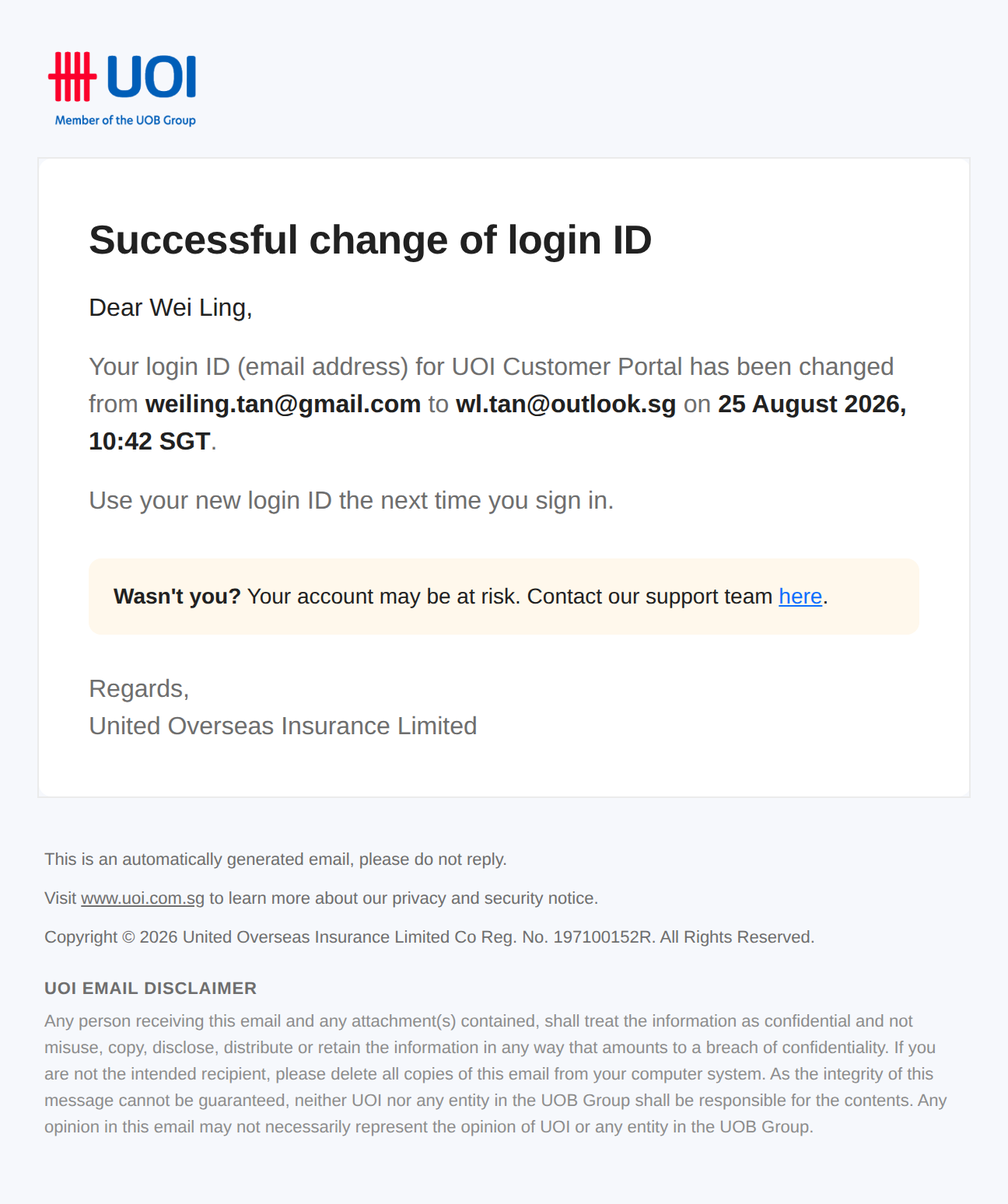
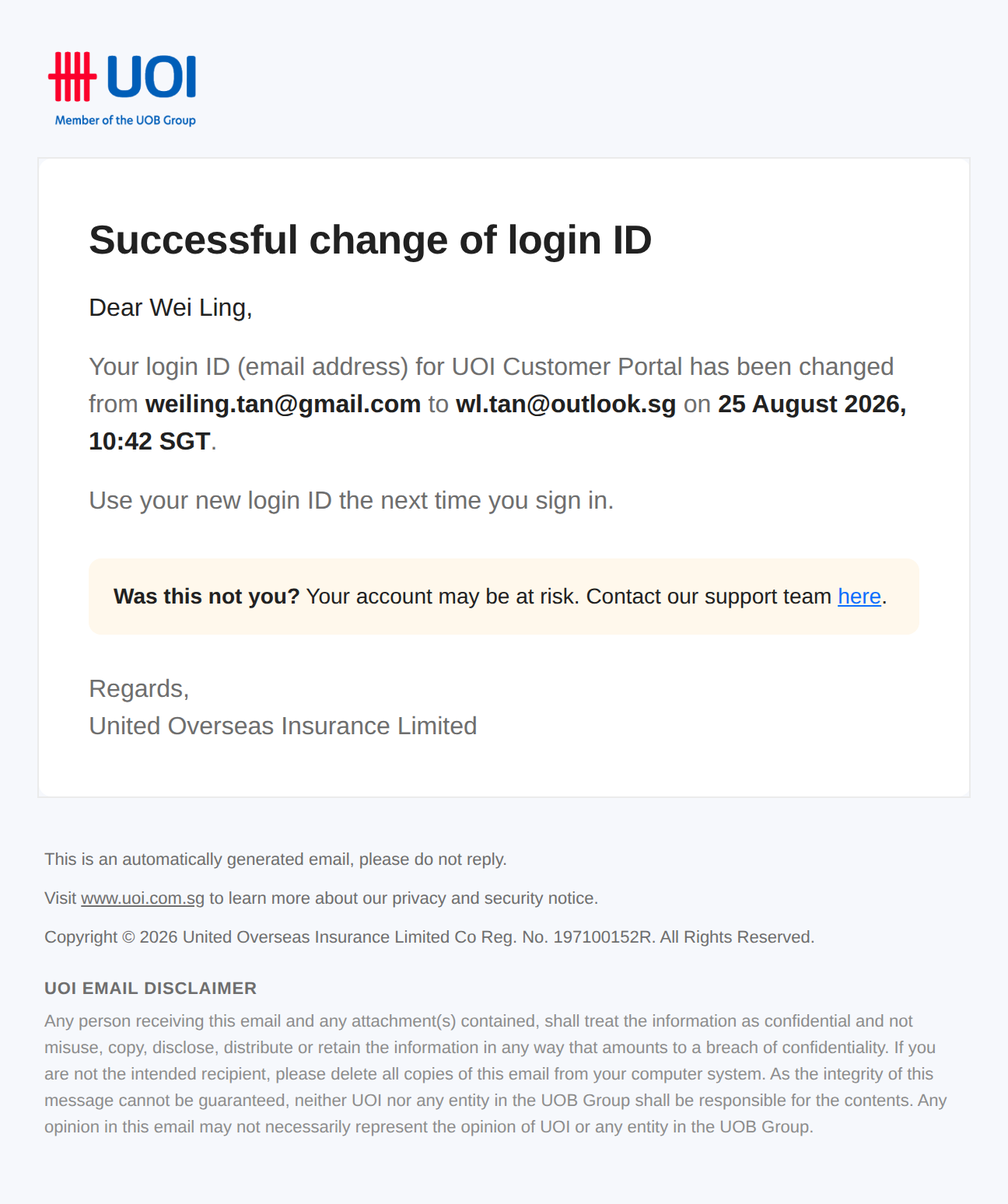
Remove contractions from all customer-facing copy
UOI style does not permit contractions like wasn't or isn't. The only one in
the emails was the notice heading, so 'Wasn't you?' becomes 'Was this not you?'
across all six templates that carry it.

The same pass covers the assets around the templates: the review page prose,
the reviewer notes that ship inside it, and the README. Possessives such as
'the portal's tokens' are left alone, being possessives rather than
contractions.

Regenerates the eleven templates, confluence.md, the PNG previews and the
review page.

Claude-Session: https://claude.ai/code/session_01Ugy4CsjXngQbuZH3dm3bHN

Changed region(s): [[0.463, 0.4651, 0.8642, 0.5271], [0.1543, 0.4651, 0.4321, 0.5271]]

diff --git a/emails/preview.html b/emails/preview.html
@@ -195,11 +195,11 @@
         </div>
         <div class="change">
           <h3>The code is an object, not a sentence</h3>
-          <p><code>Your OTP: 946683</code> inside a paragraph doesn’t scan. The code now sits in a plate that reuses the portal’s OTP input treatment, at 34px with wide tracking, with its expiry inside the same plate. One thing to read, not two.</p>
+          <p><code>Your OTP: 946683</code> inside a paragraph does not scan. The code now sits in a plate that reuses the portal’s OTP input treatment, at 34px with wide tracking, with its expiry inside the same plate. One thing to read, not two.</p>
         </div>
         <div class="change">
           <h3>One expiry, stated correctly</h3>
-          <p>The spec table says 3 minutes; the current email says 5. Templates use 3 throughout. Drive it from one backend value so copy and token can’t drift apart again.</p>
+          <p>The spec table says 3 minutes; the current email says 5. Templates use 3 throughout. Drive it from one backend value so copy and token cannot drift apart again.</p>
         </div>
         <div class="change">
           <h3>The yellow highlighter is gone</h3>
@@ -207,15 +207,15 @@
         </div>
         <div class="change">
           <h3>Copy cut by roughly half</h3>
-          <p>Before: <em>“To ensure secure access to your UOIConnect account, we’ve generated a One-Time Password (OTP) for you. Please enter this OTP on the portal login page to proceed.”</em> After: <em>“Enter this code to finish signing in to UOI Customer Portal.”</em></p>
+          <p>Before: <em>“To ensure secure access to your UOIConnect account, we have generated a One-Time Password (OTP) for you. Please enter this OTP on the portal login page to proceed.”</em> After: <em>“Enter this code to finish signing in to UOI Customer Portal.”</em></p>
         </div>
         <div class="change">
           <h3>The footer is legal text only</h3>
           <p>The blue copyright bar and the link row are gone. What remains is the required legal block, which sits below the card at 11px, the smallest type in the email, so it reads as document chrome rather than message content. The support route moved inside the card as closing fine print at 13px.</p>
         </div>
         <div class="change">
-          <h3>Every email says what to do if it wasn’t you</h3>
-          <p>Login: change your password. Reset: ignore it, nothing happens. Change login ID: call us now, don’t enter the code. The highest-value copy in a security email, and the current template has none of it.</p>
+          <h3>Every email says what to do if it was not you</h3>
+          <p>Login: change your password. Reset: ignore it, nothing happens. Change login ID: call us now, do not enter the code. The highest-value copy in a security email, and the current template has none of it.</p>
         </div>
     </div>
   </section>
@@ -404,7 +404,7 @@
             <dt>Subject</dt><dd class="mono">Reset your UOI Customer Portal password</dd>
             <dt>Preheader</dt><dd>Link is valid for the next 30 minutes.</dd>
           </dl>
-          <p class="why">Link, not a code. A reset is a click-through, so don't make the user retype anything.</p>
+          <p class="why">Link, not a code. A reset is a click-through, so the user does not have to retype anything.</p>
         </div>
         <div class="tpl-render">
           <span class="viewport-label">600&#8202;px render</span>
@@ -686,7 +686,7 @@
                 <tr>
                   <td style=&quot;background-color:#FFF8EC; border-radius:8px;
                              padding:14px 16px; font-family:'Noto Sans', -apple-system, BlinkMacSystemFont, 'Segoe UI', Arial, Helvetica, sans-serif; font-size:14px;
-                             line-height:1.5; color:#212121;&quot;><strong>Wasn't you?</strong> Someone may be trying to sign in to your account. Contact our support team <a href=&quot;https://api.whatsapp.com/send/?phone=6580814843&amp;text&amp;type=phone_number&amp;app_absent=0&quot; style=&quot;color:#0D6EFD; text-decoration:underline;&quot;>here</a>.</td>
+                             line-height:1.5; color:#212121;&quot;><strong>Was this not you?</strong> Someone may be trying to sign in to your account. Contact our support team <a href=&quot;https://api.whatsapp.com/send/?phone=6580814843&amp;text&amp;type=phone_number&amp;app_absent=0&quot; style=&quot;color:#0D6EFD; text-decoration:underline;&quot;>here</a>.</td>
                 </tr>
               </table>
 
@@ -1030,7 +1030,7 @@
                 <tr>
                   <td style=&quot;background-color:#EFF6FF; border-radius:8px;
                              padding:14px 16px; font-family:'Noto Sans', -apple-system, BlinkMacSystemFont, 'Segoe UI', Arial, Helvetica, sans-serif; font-size:14px;
-                             line-height:1.5; color:#212121;&quot;><strong>Wasn't you?</strong> Nothing has changed and no one has gained access to your account. You can safely ignore this email.</td>
+                             line-height:1.5; color:#212121;&quot;><strong>Was this not you?</strong> Nothing has changed and no one has gained access to your account. You can safely ignore this email.</td>
                 </tr>
               </table>
 
@@ -1532,7 +1532,7 @@
                 <tr>
                   <td style=&quot;background-color:#FFF8EC; border-radius:8px;
                              padding:14px 16px; font-family:'Noto Sans', -apple-system, BlinkMacSystemFont, 'Segoe UI', Arial, Helvetica, sans-serif; font-size:14px;
-                             line-height:1.5; color:#212121;&quot;><strong>Wasn't you?</strong> Your account may be at risk. Contact our support team <a href=&quot;https://api.whatsapp.com/send/?phone=6580814843&amp;text&amp;type=phone_number&amp;app_absent=0&quot; style=&quot;color:#0D6EFD; text-decoration:underline;&quot;>here</a>.</td>
+                             line-height:1.5; color:#212121;&quot;><strong>Was this not you?</strong> Your account may be at risk. Contact our support team <a href=&quot;https://api.whatsapp.com/send/?phone=6580814843&amp;text&amp;type=phone_number&amp;app_absent=0&quot; style=&quot;color:#0D6EFD; text-decoration:underline;&quot;>here</a>.</td>
                 </tr>
               </table>
 
@@ -1690,7 +1690,7 @@
                 <tr>
                   <td style=&quot;background-color:#FFF8EC; border-radius:8px;
                              padding:14px 16px; font-family:'Noto Sans', -apple-system, BlinkMacSystemFont, 'Segoe UI', Arial, Helvetica, sans-serif; font-size:14px;
-                             line-height:1.5; color:#212121;&quot;><strong>Wasn't you?</strong> Your account may be at risk. <a href=&quot;https://portal.uoi.com.sg/reset?t=a7f3c2e9&quot; style=&quot;color:#0D6EFD; text-decoration:underline;&quot;>Reset your password</a> now and contact our support team <a href=&quot;https://api.whatsapp.com/send/?phone=6580814843&amp;text&amp;type=phone_number&amp;app_absent=0&quot; style=&quot;color:#0D6EFD; text-decoration:underline;&quot;>here</a>.</td>
+                             line-height:1.5; color:#212121;&quot;><strong>Was this not you?</strong> Your account may be at risk. <a href=&quot;https://portal.uoi.com.sg/reset?t=a7f3c2e9&quot; style=&quot;color:#0D6EFD; text-decoration:underline;&quot;>Reset your password</a> now and contact our support team <a href=&quot;https://api.whatsapp.com/send/?phone=6580814843&amp;text&amp;type=phone_number&amp;app_absent=0&quot; style=&quot;color:#0D6EFD; text-decoration:underline;&quot;>here</a>.</td>
                 </tr>
               </table>
 
@@ -1848,7 +1848,7 @@
                 <tr>
                   <td style=&quot;background-color:#FFF8EC; border-radius:8px;
                              padding:14px 16px; font-family:'Noto Sans', -apple-system, BlinkMacSystemFont, 'Segoe UI', Arial, Helvetica, sans-serif; font-size:14px;
-                             line-height:1.5; color:#212121;&quot;><strong>Wasn't you?</strong> Your account may be at risk. <a href=&quot;https://portal.uoi.com.sg/reset?t=a7f3c2e9&quot; style=&quot;color:#0D6EFD; text-decoration:underline;&quot;>Reset your password</a> now and contact our support team <a href=&quot;https://api.whatsapp.com/send/?phone=6580814843&amp;text&amp;type=phone_number&amp;app_absent=0&quot; style=&quot;color:#0D6EFD; text-decoration:underline;&quot;>here</a>.</td>
+                             line-height:1.5; color:#212121;&quot;><strong>Was this not you?</strong> Your account may be at risk. <a href=&quot;https://portal.uoi.com.sg/reset?t=a7f3c2e9&quot; style=&quot;color:#0D6EFD; text-decoration:underline;&quot;>Reset your password</a> now and contact our support team <a href=&quot;https://api.whatsapp.com/send/?phone=6580814843&amp;text&amp;type=phone_number&amp;app_absent=0&quot; style=&quot;color:#0D6EFD; text-decoration:underline;&quot;>here</a>.</td>
                 </tr>
               </table>
 
@@ -2006,7 +2006,7 @@
                 <tr>
                   <td style=&quot;background-color:#FFF8EC; border-radius:8px;
                              padding:14px 16px; font-family:'Noto Sans', -apple-system, BlinkMacSystemFont, 'Segoe UI', Arial, Helvetica, sans-serif; font-size:14px;
-                             line-height:1.5; color:#212121;&quot;><strong>Wasn't you?</strong> Your account may be at risk. <a href=&quot;https://portal.uoi.com.sg/reset?t=a7f3c2e9&quot; style=&quot;color:#0D6EFD; text-decoration:underline;&quot;>Reset your password</a> now and contact our support team <a href=&quot;https://api.whatsapp.com/send/?phone=6580814843&amp;text&amp;type=phone_number&amp;app_absent=0&quot; style=&quot;color:#0D6EFD; text-decoration:underline;&quot;>here</a>.</td>
+                             line-height:1.5; color:#212121;&quot;><strong>Was this not you?</strong> Your account may be at risk. <a href=&quot;https://portal.uoi.com.sg/reset?t=a7f3c2e9&quot; style=&quot;color:#0D6EFD; text-decoration:underline;&quot;>Reset your password</a> now and contact our support team <a href=&quot;https://api.whatsapp.com/send/?phone=6580814843&amp;text&amp;type=phone_number&amp;app_absent=0&quot; style=&quot;color:#0D6EFD; text-decoration:underline;&quot;>here</a>.</td>
                 </tr>
               </table>
 

diff --git a/emails/09-password-changed.html b/emails/09-password-changed.html
@@ -89,7 +89,7 @@
                 <tr>
                   <td style="background-color:#FFF8EC; border-radius:8px;
                              padding:14px 16px; font-family:'Noto Sans', -apple-system, BlinkMacSystemFont, 'Segoe UI', Arial, Helvetica, sans-serif; font-size:14px;
-                             line-height:1.5; color:#212121;"><strong>Wasn't you?</strong> Your account may be at risk. <a href="{{reset_url}}" style="color:#0D6EFD; text-decoration:underline;">Reset your password</a> now and contact our support team <a href="https://api.whatsapp.com/send/?phone=6580814843&amp;text&amp;type=phone_number&amp;app_absent=0" style="color:#0D6EFD; text-decoration:underline;">here</a>.</td>
+                             line-height:1.5; color:#212121;"><strong>Was this not you?</strong> Your account may be at risk. <a href="{{reset_url}}" style="color:#0D6EFD; text-decoration:underline;">Reset your password</a> now and contact our support team <a href="https://api.whatsapp.com/send/?phone=6580814843&amp;text&amp;type=phone_number&amp;app_absent=0" style="color:#0D6EFD; text-decoration:underline;">here</a>.</td>
                 </tr>
               </table>
 

diff --git a/emails/10-contact-details-changed.html b/emails/10-contact-details-changed.html
@@ -89,7 +89,7 @@
                 <tr>
                   <td style="background-color:#FFF8EC; border-radius:8px;
                              padding:14px 16px; font-family:'Noto Sans', -apple-system, BlinkMacSystemFont, 'Segoe UI', Arial, Helvetica, sans-serif; font-size:14px;
-                             line-height:1.5; color:#212121;"><strong>Wasn't you?</strong> Your account may be at risk. <a href="{{reset_url}}" style="color:#0D6EFD; text-decoration:underline;">Reset your password</a> now and contact our support team <a href="https://api.whatsapp.com/send/?phone=6580814843&amp;text&amp;type=phone_number&amp;app_absent=0" style="color:#0D6EFD; text-decoration:underline;">here</a>.</td>
+                             line-height:1.5; color:#212121;"><strong>Was this not you?</strong> Your account may be at risk. <a href="{{reset_url}}" style="color:#0D6EFD; text-decoration:underline;">Reset your password</a> now and contact our support team <a href="https://api.whatsapp.com/send/?phone=6580814843&amp;text&amp;type=phone_number&amp;app_absent=0" style="color:#0D6EFD; text-decoration:underline;">here</a>.</td>
                 </tr>
               </table>
 

diff --git a/emails/11-inactivity-signin.html b/emails/11-inactivity-signin.html
@@ -89,7 +89,7 @@
                 <tr>
                   <td style="background-color:#FFF8EC; border-radius:8px;
                              padding:14px 16px; font-family:'Noto Sans', -apple-system, BlinkMacSystemFont, 'Segoe UI', Arial, Helvetica, sans-serif; font-size:14px;
-                             line-height:1.5; color:#212121;"><strong>Wasn't you?</strong> Your account may be at risk. <a href="{{reset_url}}" style="color:#0D6EFD; text-decoration:underline;">Reset your password</a> now and contact our support team <a href="https://api.whatsapp.com/send/?phone=6580814843&amp;text&amp;type=phone_number&amp;app_absent=0" style="color:#0D6EFD; text-decoration:underline;">here</a>.</td>
+                             line-height:1.5; color:#212121;"><strong>Was this not you?</strong> Your account may be at risk. <a href="{{reset_url}}" style="color:#0D6EFD; text-decoration:underline;">Reset your password</a> now and contact our support team <a href="https://api.whatsapp.com/send/?phone=6580814843&amp;text&amp;type=phone_number&amp;app_absent=0" style="color:#0D6EFD; text-decoration:underline;">here</a>.</td>
                 </tr>
               </table>
 

diff --git a/emails/03-account-locked.html b/emails/03-account-locked.html
@@ -106,7 +106,7 @@
                 <tr>
                   <td style="background-color:#FFF8EC; border-radius:8px;
                              padding:14px 16px; font-family:'Noto Sans', -apple-system, BlinkMacSystemFont, 'Segoe UI', Arial, Helvetica, sans-serif; font-size:14px;
-                             line-height:1.5; color:#212121;"><strong>Wasn't you?</strong> Someone may be trying to sign in to your account. Contact our support team <a href="https://api.whatsapp.com/send/?phone=6580814843&amp;text&amp;type=phone_number&amp;app_absent=0" style="color:#0D6EFD; text-decoration:underline;">here</a>.</td>
+                             line-height:1.5; color:#212121;"><strong>Was this not you?</strong> Someone may be trying to sign in to your account. Contact our support team <a href="https://api.whatsapp.com/send/?phone=6580814843&amp;text&amp;type=phone_number&amp;app_absent=0" style="color:#0D6EFD; text-decoration:underline;">here</a>.</td>
                 </tr>
               </table>
 

diff --git a/emails/08-login-id-changed.html b/emails/08-login-id-changed.html
@@ -89,7 +89,7 @@
                 <tr>
                   <td style="background-color:#FFF8EC; border-radius:8px;
                              padding:14px 16px; font-family:'Noto Sans', -apple-system, BlinkMacSystemFont, 'Segoe UI', Arial, Helvetica, sans-serif; font-size:14px;
-                             line-height:1.5; color:#212121;"><strong>Wasn't you?</strong> Your account may be at risk. Contact our support team <a href="https://api.whatsapp.com/send/?phone=6580814843&amp;text&amp;type=phone_number&amp;app_absent=0" style="color:#0D6EFD; text-decoration:underline;">here</a>.</td>
+                             line-height:1.5; color:#212121;"><strong>Was this not you?</strong> Your account may be at risk. Contact our support team <a href="https://api.whatsapp.com/send/?phone=6580814843&amp;text&amp;type=phone_number&amp;app_absent=0" style="color:#0D6EFD; text-decoration:underline;">here</a>.</td>
                 </tr>
               </table>
 

diff --git a/emails/05-existing-account.html b/emails/05-existing-account.html
@@ -106,7 +106,7 @@
                 <tr>
                   <td style="background-color:#EFF6FF; border-radius:8px;
                              padding:14px 16px; font-family:'Noto Sans', -apple-system, BlinkMacSystemFont, 'Segoe UI', Arial, Helvetica, sans-serif; font-size:14px;
-                             line-height:1.5; color:#212121;"><strong>Wasn't you?</strong> Nothing has changed and no one has gained access to your account. You can safely ignore this email.</td>
+                             line-height:1.5; color:#212121;"><strong>Was this not you?</strong> Nothing has changed and no one has gained access to your account. You can safely ignore this email.</td>
                 </tr>
               </table>
 

diff --git a/emails/build.py b/emails/build.py
@@ -390,7 +390,7 @@ add(
         tail=["Link is valid for the next 30 minutes, after which you will need to "
               "request again."],
     ),
-    "Link, not a code. A reset is a click-through, so don't make the user retype anything.",
+    "Link, not a code. A reset is a click-through, so the user does not have to retype anything.",
     section="Login",
     item="Forget password, reset link",
 )
@@ -467,7 +467,7 @@ add(
          % T["text_primary"],
          "While you are here, it is worth checking that your contact details are "
          "current, so policy documents and renewal reminders reach you."],
-        middle=[notice("<strong>Wasn't you?</strong> Your account may be at risk. "
+        middle=[notice("<strong>Was this not you?</strong> Your account may be at risk. "
                        + link("Reset your password", RESET_URL) + " now and contact our "
                        "support team " + link("here", SUPPORT_URL) + ".", "caution")],
         help_line=False,
@@ -493,7 +493,7 @@ add(
          "<strong style=\"color:%s;\">{{change_datetime}}</strong>."
          % (T["text_primary"], T["text_primary"], T["text_primary"]),
          "Use your new login ID the next time you sign in."],
-        middle=[notice("<strong>Wasn't you?</strong> Your account may be at risk. Contact "
+        middle=[notice("<strong>Was this not you?</strong> Your account may be at risk. Contact "
                        "our support team " + link("here", SUPPORT_URL) + ".", "caution")],
         help_line=False,
     ),
@@ -514,7 +514,7 @@ add(
         ["The password for your UOI Customer Portal account was changed on "
          "<strong style=\"color:%s;\">{{change_datetime}}</strong>." % T["text_primary"],
          "Use your new password the next time you sign in."],
-        middle=[notice("<strong>Wasn't you?</strong> Your account may be at risk. "
+        middle=[notice("<strong>Was this not you?</strong> Your account may be at risk. "
                        + link("Reset your password", RESET_URL) + " now and contact our "
                        "support team " + link("here", SUPPORT_URL) + ".", "caution")],
         help_line=False,
@@ -539,7 +539,7 @@ add(
          % (T["text_primary"], T["text_primary"]),
          "Policy documents and renewal reminders will go to your updated details "
          "from now on."],
-        middle=[notice("<strong>Wasn't you?</strong> Your account may be at risk. "
+        middle=[notice("<strong>Was this not you?</strong> Your account may be at risk. "
                        + link("Reset your password", RESET_URL) + " now and contact our "
                        "support team " + link("here", SUPPORT_URL) + ".", "caution")],
         help_line=False,
@@ -565,7 +565,7 @@ add(
          "Reset your password to unlock it."],
         middle=[f'<div class="btn">{primary_button("Reset password", RESET_URL)}</div>',
                 spacer(24),
-                notice("<strong>Wasn't you?</strong> Someone may be trying to sign in to "
+                notice("<strong>Was this not you?</strong> Someone may be trying to sign in to "
                        "your account. Contact our support team "
                        + link("here", SUPPORT_URL) + ".", "caution")],
         help_line=False,
@@ -591,7 +591,7 @@ add(
          "If that was you, sign in with your existing details instead."],
         middle=[f'<div class="btn">{primary_button("Go to dashboard", PORTAL_URL)}</div>',
                 spacer(24),
-                notice("<strong>Wasn't you?</strong> Nothing has changed and no one has "
+                notice("<strong>Was this not you?</strong> Nothing has changed and no one has "
                        "gained access to your account. You can safely ignore this email.",
                        "info")],
     ),
@@ -667,18 +667,18 @@ CHANGES = [
      "photo-led version currently arrives as a grey box; this one degrades to the "
      "brand name and stays fully readable."),
     ("The code is an object, not a sentence",
-     "<code>Your OTP: 946683</code> inside a paragraph doesn\u2019t scan. The code now sits "
+     "<code>Your OTP: 946683</code> inside a paragraph does not scan. The code now sits "
      "in a plate that reuses the portal\u2019s OTP input treatment, at 34px with wide "
      "tracking, with its expiry inside the same plate. One thing to read, not two."),
     ("One expiry, stated correctly",
      "The spec table says 3 minutes; the current email says 5. Templates use 3 "
-     "throughout. Drive it from one backend value so copy and token can\u2019t drift "
+     "throughout. Drive it from one backend value so copy and token cannot drift "
      "apart again."),
     ("The yellow highlighter is gone",
      "Highlighting on \u201cOTP\u201d reads as an unfinished Word document. Emphasis comes "
      "from type scale and the plate, which is what the portal already does."),
     ("Copy cut by roughly half",
-     "Before: <em>\u201cTo ensure secure access to your UOIConnect account, we\u2019ve "
+     "Before: <em>\u201cTo ensure secure access to your UOIConnect account, we have "
      "generated a One-Time Password (OTP) for you. Please enter this OTP on the portal "
      "login page to proceed.\u201d</em> After: <em>\u201cEnter this code to finish signing in "
      "to UOI Customer Portal.\u201d</em>"),
@@ -687,9 +687,9 @@ CHANGES = [
      "legal block, which sits below the card at 11px, the smallest type in the email, "
      "so it reads as document chrome rather than message content. The support route "
      "moved inside the card as closing fine print at 13px."),
-    ("Every email says what to do if it wasn\u2019t you",
+    ("Every email says what to do if it was not you",
      "Login: change your password. Reset: ignore it, nothing happens. Change login "
-     "ID: call us now, don\u2019t enter the code. The highest-value copy in a security "
+     "ID: call us now, do not enter the code. The highest-value copy in a security "
      "email, and the current template has none of it."),
 ]
 

diff --git a/emails/README.md b/emails/README.md
@@ -35,7 +35,7 @@ element and carries no information. On a phone it pushes the OTP, the only thing
 the reader actually wants, below the fold. It has been replaced by a 4px bar in
 the portal's primary blue: brand presence is instant, and the code sits in the
 first screenful. As a bonus, most corporate mail clients block images by default,
-so a photo-led email currently arrives as a grey box; this one doesn't depend on
+so a photo-led email currently arrives as a grey box; this one does not depend on
 images at all.
 
 **2. The code is an object, not a sentence.**
@@ -48,14 +48,14 @@ own. Code and validity are one thing to read, not two.
 **3. Expiry is stated once and stated correctly.**
 The spec table says 3 minutes; the current email says 5. The templates use 3
 minutes throughout. Set it from one config value on the backend so the copy and
-the token can't drift apart again.
+the token cannot drift apart again.
 
 **4. The yellow highlighter is gone.**
 Highlighting on "OTP" reads as an unfinished Word document. Emphasis now comes
 from type scale and the plate, which is what the portal does.
 
 **5. Copy cut by roughly half.**
-Before: *"To ensure secure access to your UOIConnect account, we've generated a
+Before: *"To ensure secure access to your UOIConnect account, we have generated a
 One-Time Password (OTP) for you. Please enter this OTP on the portal login page
 to proceed."* After: *"Enter this code to finish signing in to UOI Customer Portal."*
 Nobody reads a transactional email; they scan it for one thing.
@@ -77,7 +77,7 @@ to work out what matters:
 | 2 | `notice()` | tinted box, 8px radius | what to do if it was not you |
 | 3 | `fine()` | 13px, `#8D8D8D`, behind a hairline | security note, support |
 
-**8. The three notice emails say what to do if it wasn't you.**
+**8. The three notice emails say what to do if it was not you.**
 Templates 6, 7 and 8 confirm something that already happened, so a caution box
 carries the recovery route and they close on it rather than repeating a help
 line underneath. Templates 1 to 5 keep the help line, since nothing has
@@ -180,7 +180,7 @@ constants, not merge fields.
   ID, the old address is the only one the customer still reaches. Sending only to
   the new address means a hijack is never seen.
 - **Row 5 of the spec table** ("Others") was cut off in the screenshot. Send me the
-  remaining scenarios and they'll slot into the same shell.
+  remaining scenarios and they will slot into the same shell.
 
 ### QA before launch
 

diff --git a/emails/confluence.md b/emails/confluence.md
@@ -125,7 +125,7 @@ Reset your password to unlock it.
 
 [Reset password]
 
-**Wasn't you?** Someone may be trying to sign in to your account. Contact our support team [here].
+**Was this not you?** Someone may be trying to sign in to your account. Contact our support team [here].
 
 Regards,
 
@@ -222,7 +222,7 @@ If that was you, sign in with your existing details instead.
 
 [Go to dashboard]
 
-**Wasn't you?** Nothing has changed and no one has gained access to your account. You can safely ignore this email.
+**Was this not you?** Nothing has changed and no one has gained access to your account. You can safely ignore this email.
 
 If you need any help, feel free to reach out to our support team [here].
 
@@ -363,7 +363,7 @@ Your login ID (email address) for UOI Customer Portal has been changed from **{{
 
 Use your new login ID the next time you sign in.
 
-**Wasn't you?** Your account may be at risk. Contact our support team [here].
+**Was this not you?** Your account may be at risk. Contact our support team [here].
 
 Regards,
 
@@ -405,7 +405,7 @@ The password for your UOI Customer Portal account was changed on **{{change_date
 
 Use your new password the next time you sign in.
 
-**Wasn't you?** Your account may be at risk. [Reset your password] now and contact our support team [here].
+**Was this not you?** Your account may be at risk. [Reset your password] now and contact our support team [here].
 
 Regards,
 
@@ -448,7 +448,7 @@ The following details on your UOI Customer Portal account were changed on **{{ch
 
 Policy documents and renewal reminders will go to your updated details from now on.
 
-**Wasn't you?** Your account may be at risk. [Reset your password] now and contact our support team [here].
+**Was this not you?** Your account may be at risk. [Reset your password] now and contact our support team [here].
 
 Regards,
 
@@ -491,7 +491,7 @@ You signed in to your UOI Customer Portal account on **{{login_datetime}}**. It 
 
 While you are here, it is worth checking that your contact details are current, so policy documents and renewal reminders reach you.
 
-**Wasn't you?** Your account may be at risk. [Reset your password] now and contact our support team [here].
+**Was this not you?** Your account may be at risk. [Reset your password] now and contact our support team [here].
 
 Regards,
 
